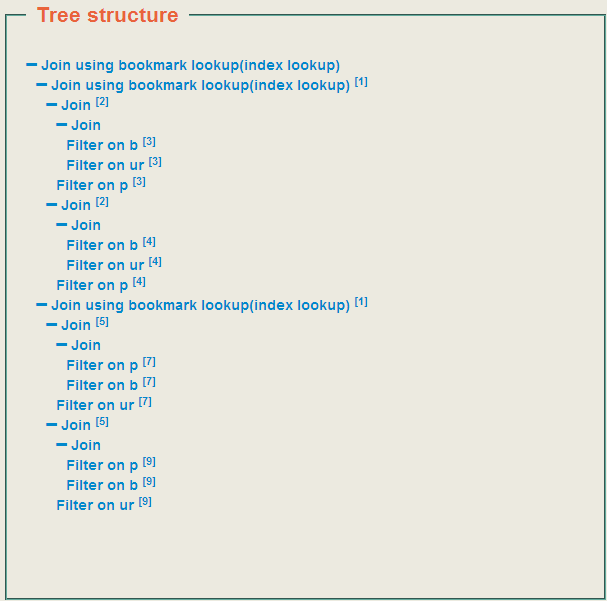
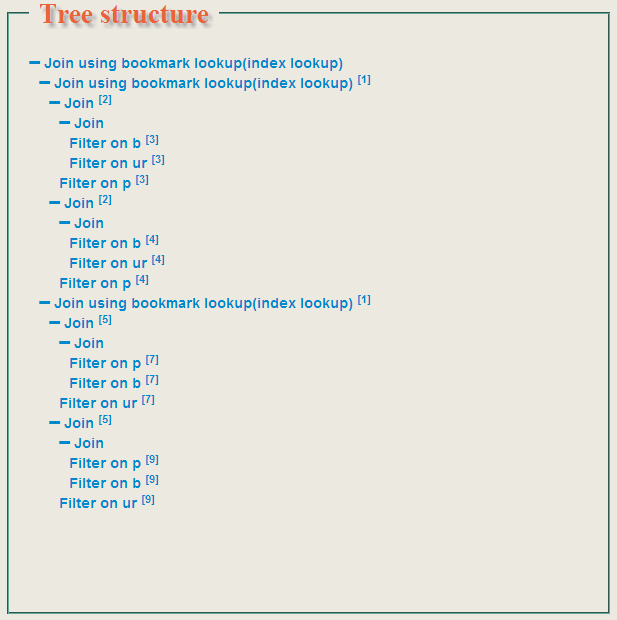
changes in design and font styles.

Changed region(s): [[0.0, 0.0, 1.0, 1.0]]

diff --git a/css/transformer.css b/css/transformer.css
@@ -3,6 +3,7 @@ body {
 	background-color: #ECEAE0;
 }
 
+}
 .tree {
 	padding: 5px;
 }
@@ -15,13 +16,15 @@ header div.headerWrapper {
 }
 
 .caption {
-	font-size: 25px;
-	font-weight: bold;
 	color: white;
 	background-color: #221E1D;
-	width: 30%;
-	margin-left: 35%;
+	width: 40%;
+	margin-left: 30%;
 	margin-top: 10px;
+	font-family: 'Tangerine', serif;
+	font-size: 48px;
+	text-shadow: 4px 4px 4px #aaa;
+	font-weight: bold;
 }
 
 .help {
@@ -32,10 +35,16 @@ header div.headerWrapper {
 
 #browse {
 	height: 24px;
-    line-height: 15px;
-    margin-left: 47%;
-    margin-top: 1%;
-    width: 43%;
+	line-height: 15px;
+	margin-left: 48%;
+	margin-top: 1%;
+	width: 40%;
+	background-size: 30px;
+	padding: 5px 30px 5px 5px;
+	background-position: right;
+	border-radius: 5px;
+	background-color: #3093c7;
+	color: white;
 }
 
 .fileData {
@@ -46,6 +55,12 @@ header div.headerWrapper {
 #transform {
 	margin-top: 215px;
 	width: 100%;
+	background-size: 30px;
+	padding: 5px 30px 5px 5px;
+	background-position: right;
+	border-radius: 5px;
+	background-color: #4280EE;
+	color: white;
 }
 
 #jsontreeview {
@@ -69,24 +84,21 @@ a:link {
 	color: white;
 	font-size: 1em;
 	font-weight: 500;
-	font-family: arial, helvetica, sans-serif;
-	text-decoration: none;
+	font-family: 'Trade Winds', serif;
 }
 
 a:visited {
 	color: #BDE0F1;
 	font-size: 1em;
 	font-weight: 500;
-	font-family: arial, helvetica, sans-serif;
-	text-decoration: none;
+	font-family: 'Trade Winds', serif;
 }
 
 a:hover {
 	color: #1EA0E0;
 	font-size: 1em;
 	font-weight: 500;
-	font-family: arial, helvetica, sans-serif;
-	text-decoration: none;
+	font-family: 'Trade Winds', serif;
 }
 
 .home {
@@ -126,6 +138,10 @@ legend.accessplanborder {
 	border-bottom: none;
 	color: #E9633B;
 	margin-top: 15px;
+	font-family: 'Trade Winds', serif;
+	font-size: 28px;
+	text-shadow: 4px 4px 4px #aaa;
+	font-weight: bold;
 }
 
 fieldset.accessplanborder {
@@ -139,21 +155,52 @@ fieldset.accessplanborder {
 }
 
 .helpcontent {
-	 margin: 5% 10% 0;
-	 font-family: 'Goudy Bookletter 1911', Georgia, Times, serif;
-    font-size: 15px;
-    line-height: 25px;
+	margin: 3% 10% 0;
+	border-radius: 10px;
+	border: 2px solid;
+	padding: 10px;
+	border: 2px solid;
+	border-color: #437268;
+	font-family: 'Gentium Basic', serif;
+	font-size: 19px;
+	color: rgb(20, 20, 20);
 }
 
 .helpheader {
-	 font-family: 'Raleway',Helvetica,Arial,sans-serif;
-    font-size: 25px;
-    font-weight: bold;
-    line-height: 40px;
-    margin-left: 43%;
+	font-family: 'Trade Winds', serif;
+	font-size: 33px;
+	text-shadow: 4px 4px 4px #aaa;
+	font-weight: bold;
+	line-height: 40px;
+	margin-left: 37%;
+	color: #E9633B;
+	margin-top: 15px;
 }
 
 .img {
-	border-radius : 5px;
-	margin-left : 5%;
+	border-radius: 5px;
+	margin-left: 5%;
+	max-width: 90%;
+}
+
+p {
+	margin: 0;
+	text-align: left;
+	margin-left: 12px;
+	line-height: 30px;
+}
+
+ul,ol {
+	margin: 0 0 10px 35px;
+}
+
+.button {
+	padding: 5px 30px 5px 5px;
+	border: 1px solid #443E3E;
+	color: #000;
+	text-decoration: none;
+	background: #dcdcdc url(img/arrow.png) no-repeat scroll 5px center;
+	background-size: 30px;
+	background-position: right;
+	background-color: red;
 }

diff --git a/help.html b/help.html
@@ -5,6 +5,8 @@
 <link href="bootstrap/css/font-awesome.css" rel="stylesheet">
 <link href="bootstrap/css/bootstrap-combined.no-icons.min.css"
 	rel="stylesheet">
+<link rel="stylesheet" type="text/css" href="http://fonts.googleapis.com/css?family=Tangerine">
+<link rel="stylesheet" type="text/css" href="http://fonts.googleapis.com/css?family=Buda">
 <link href="css/transformer.css" rel="stylesheet">
 <body>
     <header>
@@ -17,21 +19,21 @@
 		<div class="helpheader">Instruction Manual</div>
 		<div class="helpcontent">
 			<strong>Description :</strong> 
-			<p>This application is used to format complex query access plan into easily understandable tree format.
+			<p>This application is used to format query access plan into easily understandable tree format.
 			    It takes access plan as input and format it in tree structure as output.
 			</p>
 			<br>
 			<strong>Installation :</strong> 
-			<p>Download this project <a href="https://github.com/sans-sense/queralyzer/archive/gh-pages.zip" style="color : blue; font-size:14px">here</a>
-			     and render index page in any browser.</p>
-			<br>
+			<p>Download this project <a href="https://github.com/sans-sense/queralyzer/archive/gh-pages.zip" style="color : blue; font-size:19px">here</a>
+			     and render index page.
+			</p><br>
 			<strong>Usage :</strong>
-			<p>You can provide access plan in two ways
+			<p>You can provide access plan in two ways</p>
 			      <ul>
 			      <li type=circle> Paste access plan in the text box  or
 			      <li type=circle> Select a file which contains access plan.
 			      </ul>
-			And click on format button to see tree structure of the given access plan.</p>
+			<p>And click on format button to see tree structure of the given access plan.</p>
 			<br>
 			<strong>Inputs :</strong>
 			<p>Below are the types of supported access plan inputs</p>
@@ -47,6 +49,7 @@
 			</div>
 			</ul>
 			<br>
+			
 			<strong>Output :</strong>
 			<p>Tree structure for the given access plan.
 			<br>
@@ -54,6 +57,7 @@
 			<div class="finaltree">
 			<img class="img" src="img/treestructure.png" />
 			</div>
+			
 		</div>
 	</div>
 	

diff --git a/accessplanformatter.html b/accessplanformatter.html
@@ -7,6 +7,7 @@
 <link href="bootstrap/css/bootstrap-combined.no-icons.min.css"
 	rel="stylesheet">
 <link href="css/transformer.css" rel="stylesheet">
+<link rel="stylesheet" type="text/css" href="http://fonts.googleapis.com/css?family=Tangerine">
 
 
 <script src="js/lib/d3.min.js" type="text/javascript"></script>
@@ -52,22 +53,25 @@
 		<div class="help"><a href="help.html">Help</a></div>
 		</div>
 	</header>
-	
 	<div class="accessplan">
 		<fieldset class="accessplanborder">
 			<legend class="accessplanborder">Access Plan</legend>
 			<textarea name="fileData" class="fileData"
 				placeholder="Paste access plan here or choose access plan file."></textarea>
-			<input type="file" id="browse" class="btn btn-primary"
+			<input type="file" id="browse" 
 				name="fileupload" />
 			<div id="info"></div>
 		</fieldset>
 	</div>
-	<div class="actions"><input type="button" name="transform" id="transform"
-					value="Format"  class="btn btn-primary"/>
-					<input type="button" name="reset" id="reset" value="Reset" class="btn btn-primary" />
-					</div>
-	
+	<div class="actions">
+		<input type="button" name="transform" id="transform" value="Format"
+			style="background: url(img/arrow.png) no-repeat; margin-top: 215px; width: 90%; background-size: 30px; padding: 5px 30px 5px 5px; background-position: right; border-radius: 5px; background-color: #3093c7; color: white; font-family: 'Gentium Basic', serif;
+font-size: 17px;" />
+		<input type="button" name="reset" id="reset" value="Reset"
+			style="background: url(img/reset.png) no-repeat; background-size: 30px; padding: 5px 30px 5px 5px; background-position: right; border-radius: 5px; background-color: #3093c7; width: 80%;
+margin-left: 6%; color: white; " />
+	</div>
+
 	<div class="treeview">
 	<fieldset class="accessplanborder">
 			<legend class="accessplanborder">Tree structure</legend>
